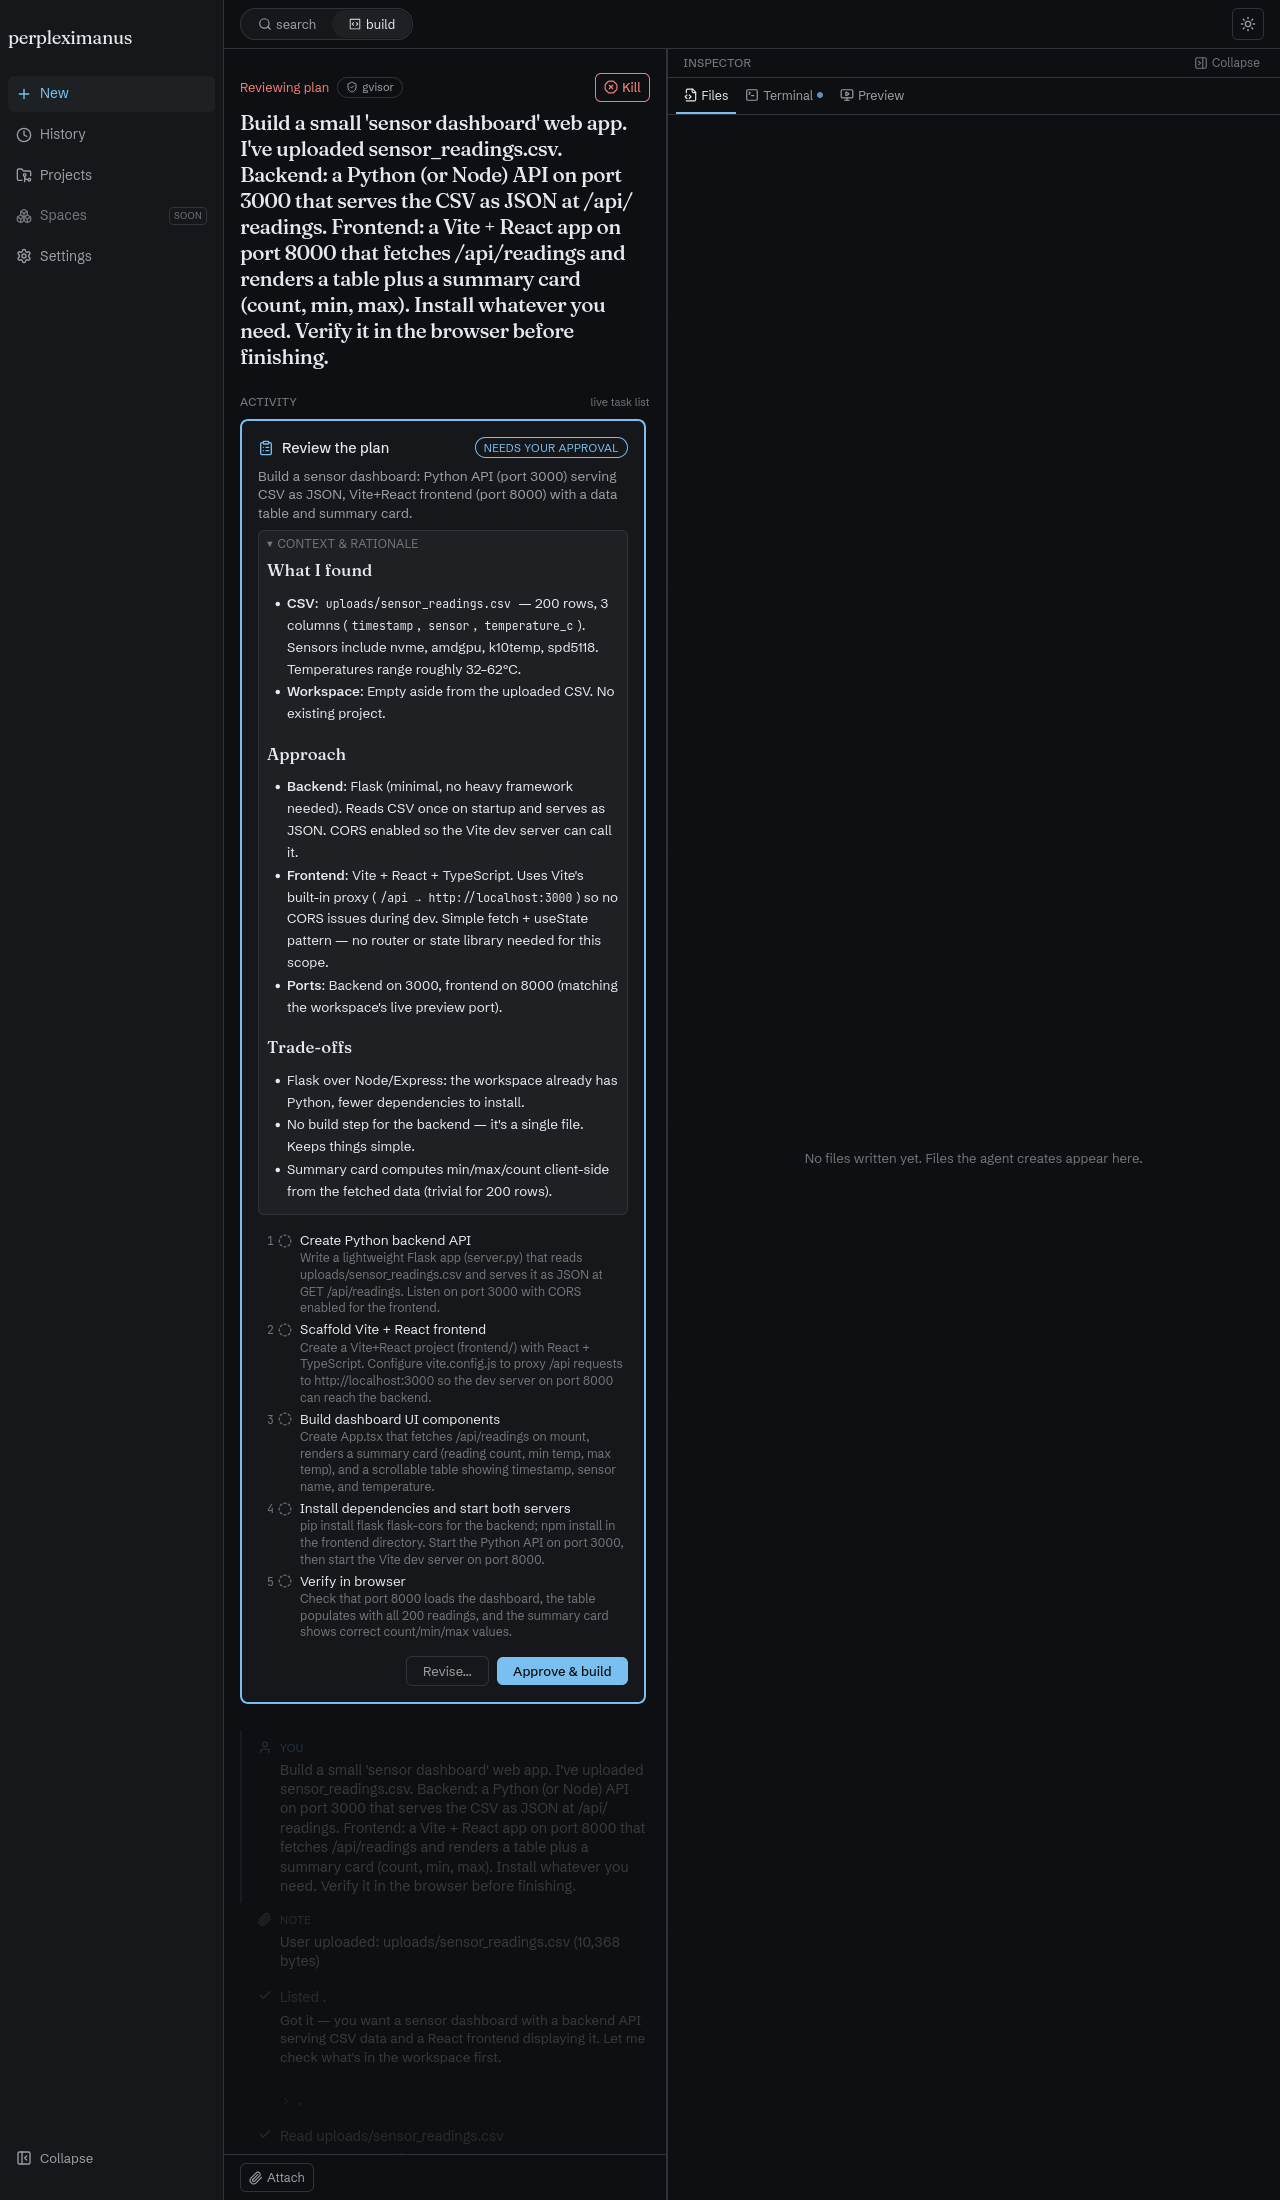
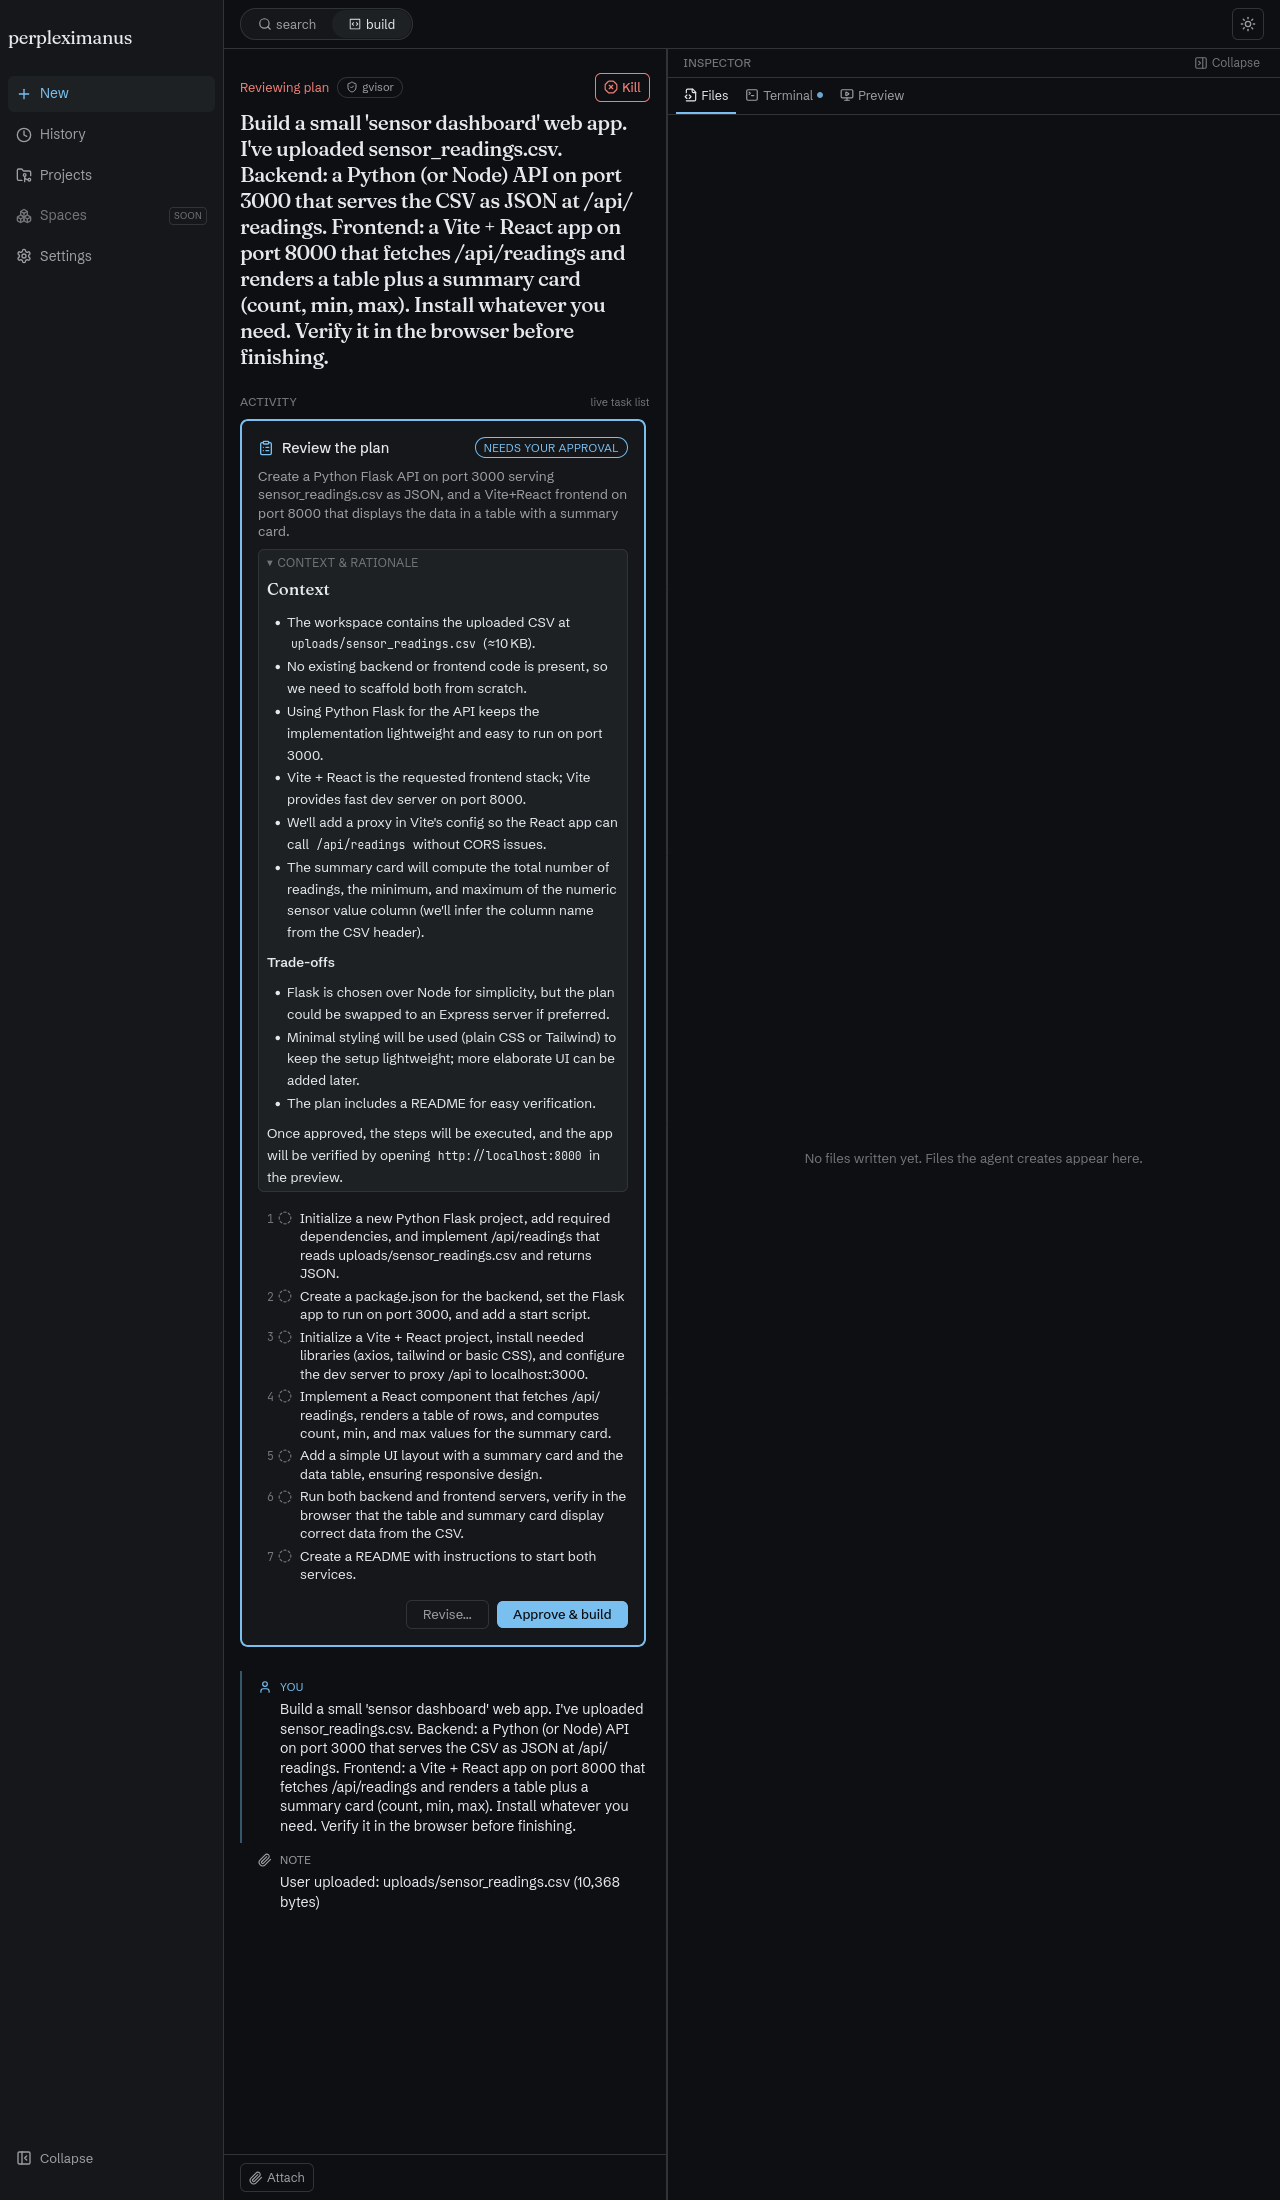
ops: DEFECT-6 filed + Phase B post-crash rerun evidence; orchestrate.sh status gains full-tree cpu= column (hang detection) + exit 0

Changed region(s): [[0.1875, 0.2164, 0.5, 0.8964]]

diff --git a/test-record/marathon/DEFECTS.md b/test-record/marathon/DEFECTS.md
@@ -197,3 +197,34 @@ orders, never to bp-16 itself.
   values" FAILS as a system finding (recorded per-check in the witness, not
   patched). Port pills, per-port JSON proxy (`/port/3000/api/readings`),
   Terminal, and feed thumbnails are unaffected surfaces.
+
+## DEFECT-6: a provider 400 mid-conversation is terminal — malformed-request rejection has no requery/salvage path
+
+- **Found**: 2026-06-11, Phase B rerun on the OpenRouter free driver
+  (`or-gpt-oss-120b-free`, sole upstream OpenInference), conversation
+  `conv_cd1f9385cbfc484d8368bb9a4f5d1d8b`, evidence
+  `test-record/marathon/phase-b-rerun-postcrash.log` + `/tmp/pmx-marathon.log`.
+- **Chain**: (1) driver hallucinated tool name `shell.exec` (dot; the offered
+  set has `shell_exec`) → engine correctly emitted `agent_error` feedback
+  (seq 15); (2) the NEXT driver request was rejected HTTP 400 by the upstream
+  ("Provider returned error"); (3) the 400 maps to a non-transient `LLMError`
+  → terminal `ErrorEvent` (seq 16) per llm-router v1.3 reactive surfacing.
+  One rejected request killed the whole build; Phase B never reached its
+  SIGTERM/resume subject.
+- **Probes**: dotted name in echoed history alone is NOT the trigger (clean
+  A/B probe with proper tool descriptions → 200/200); a tools array entry
+  missing `description` deterministically 400s on OpenInference (strict
+  pydantic `ToolDescription`), but all engine ToolSpecs carry string
+  descriptions. Exact offending field in request #6 unknown — needs a
+  verbatim capture (recording router) on next repro. Suspect surface: the
+  post-`agent_error` history shape and/or the meta-tool unlock between
+  request 5 and 6 (DC-05 withholding boundary).
+- **Sibling**: DEFECT-5 covered *transient* outages (now retried); this is
+  the *rejected-request* class — retrying the SAME payload cannot help, the
+  payload must be repaired/requeried OUTSIDE the event log (harvest #6,
+  SWE-agent `forward_with_handling`; OpenCode hidden-`invalid`-tool reroute).
+  Both are RP-12 FC-kit scope.
+- **Severity**: HIGH on weak/strictly-validated drivers (the dev default per
+  the OpenRouter-only decision); masked on the local 27B (lenient server).
+- **Gate impact**: Phase B FAIL-before-subject; rerun blocked until RP-12
+  lands or driver changes.
